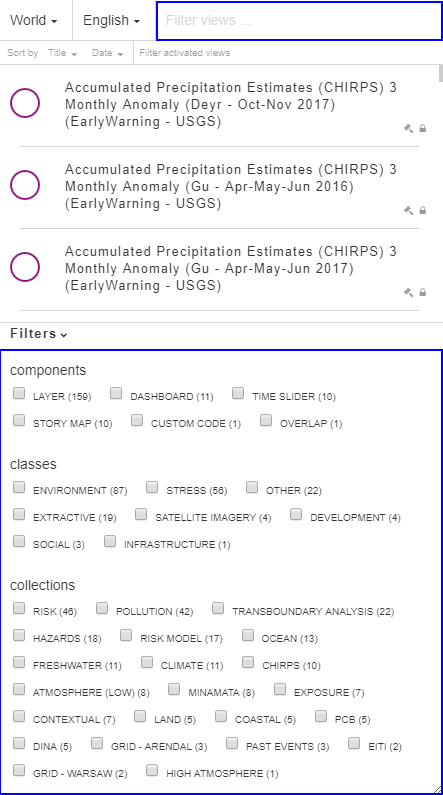
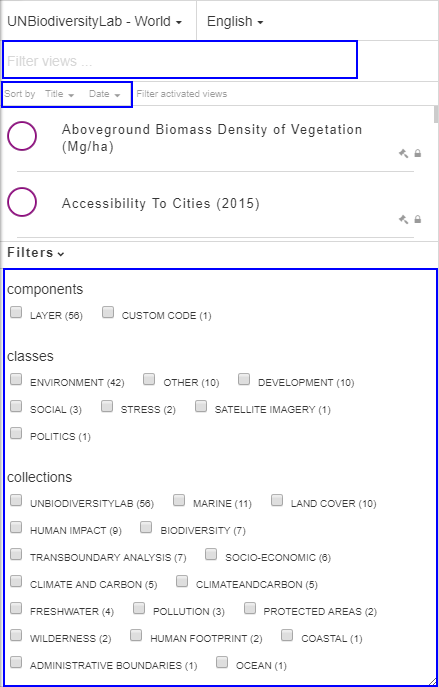
Update walktrhough

diff --git a/sandboxes.html b/sandboxes.html
@@ -70,7 +70,12 @@
           <div class="info-wrap">
             <div class="text">
               <h2>Welcome to your sandbox </h2>
-              <p>Welcome to your Sandbox! Here you will have access to additional data layers, analytical tools, and the ability to upload data, download data, export and share your maps. Sandboxes can be created for each project you are working on. You can also invite or be invited to the sandboxes of colleagues for collaboration and co-design.</p>
+              <p>
+                Welcome to your Sandbox! Here you will have access to additional data layers,
+                analytical tools, and the ability to upload data, download data, export and share your maps.
+                Sandboxes can be created for each project you are working on.
+                You can also invite or be invited to the sandboxes of colleagues for collaboration and co-design.
+              </p>
               <a href="#" class="btn">Start <span class="icon-right"></span></a>
             </div>
           </div>
@@ -82,9 +87,7 @@
             <div class="text left">
               <h2>Find data</h2>
               <p>
-                You can filter views by keyword within the world view or a particular country view by entering
-                your search term(s) in “filter views” box. You can choose to filter by type of data in <b>components</b>,
-                keywords in <b>classes</b>, or by project theme in <b>collections</b>.
+                Within the global UN Biodiversity Lab sandbox, you can filter views by keyword by entering your search term(s) in the “Filter Views” box. Views can be sorted according to time or date. You can choose to filter by type of data in <b>components</b>, keywords in <b>classes</b>, or by project theme in <b>collections</b>.
               </p>
             </div>
             <strong class="title">Example:</strong>
@@ -132,7 +135,9 @@
               <h2>Download Data</h2>
               <p>
                 Click the cloud button in the toolbar beneath the view to download the data.
-                Please note that not all datasets are available to download - some are protected as view only licenses.
+                Please note that not all datasets are available to download - some are protected as
+                view only licenses. You can customize the data by selecting the country you
+                would like to clip (spatially select) the data to, and the output format of the data.
               </p>
             </div>
             <strong class="title">Example:</strong>
@@ -175,21 +180,18 @@
             <div class="text left">
               <h2>Share Results</h2>
               <p>
-                To share your results, you have two options. You can select the share data button to
-                receive a direct link in the view.
-                Alternatively, you can embed your map directly into a website or blog using an iframe.
-                The embed button is found within the toolbar. You can customize the style and project,
-                or select the defaults options, and create an HTML code that can be inputted into your website
-                or blog to create the iframe. You can adjust the width or height of the iframe within the code.
+                To share your results, select the “Share Data” button in the toolbar beneath the view.
+                Within the window that appears you can choose to receive a direct link to your selected view,
+                with customizable options such as setting the project, collection, or view of the link.
+                To receive an HTML code for embedding the link into a website or blog using an iframe,
+                click "Include URL in an iframe".
+                You can then adjust the width or height of the iframe (in pixels) within the code.
               </p>
             </div>
             <strong class="title">Example:</strong>
             <ul class="image-list">
               <li>
                 <img src="images/share_results_1.jpg" alt="image description">
-              </li>
-              <li>
-                <img src="images/share_results_2.jpg" alt="image description">
               </li>
             </ul>
           </div>
